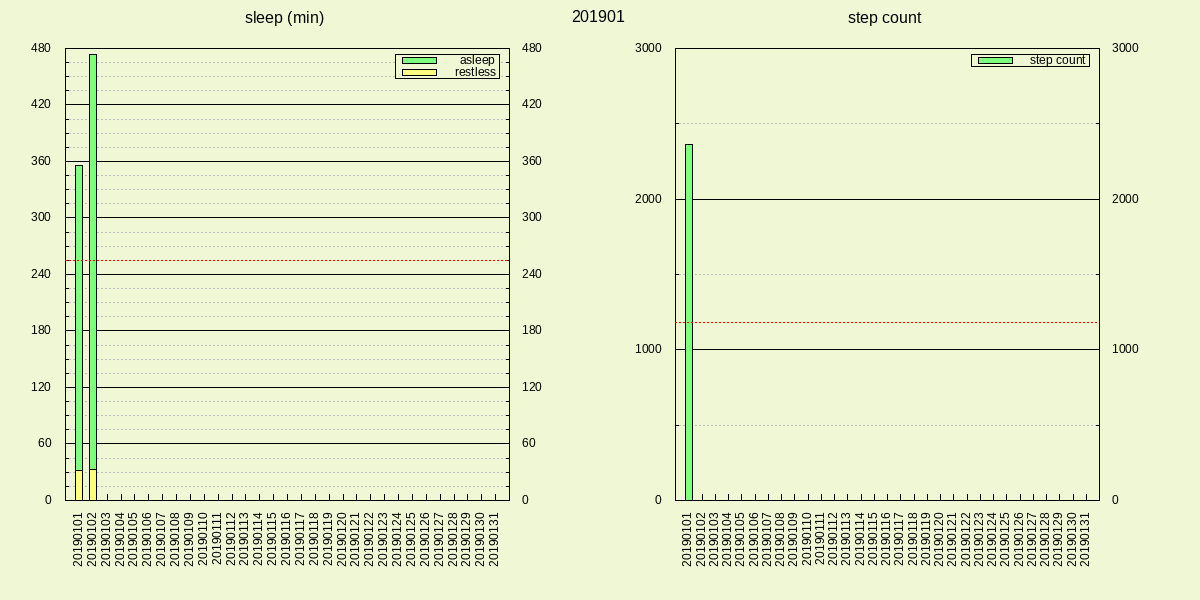
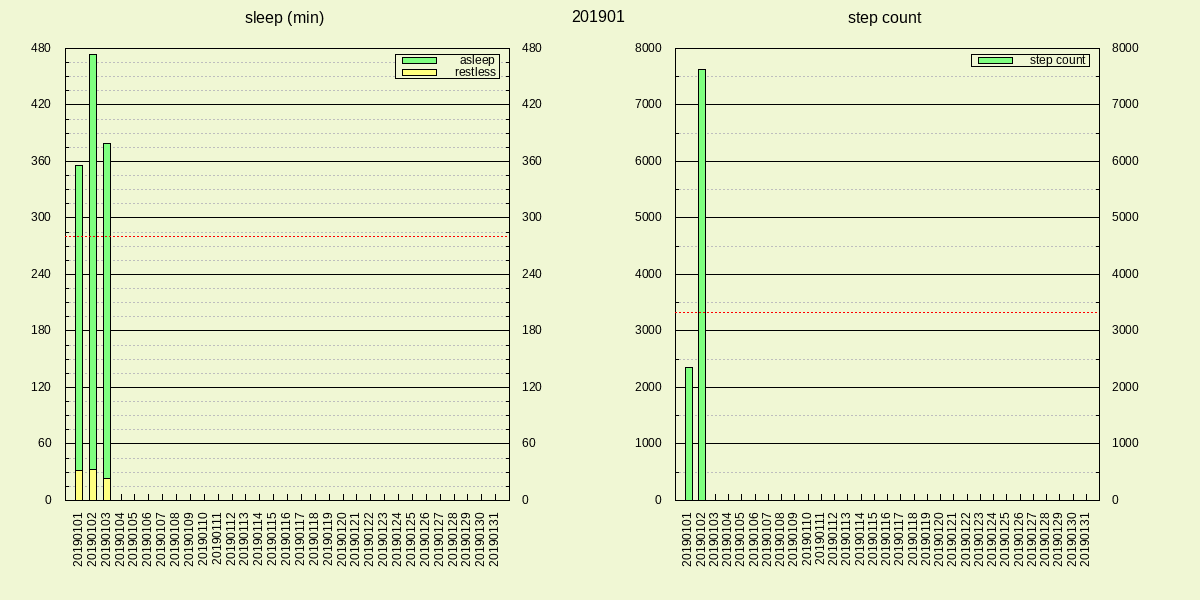
20191203 slac and README fix slac plot

diff --git a/README.md b/README.md
@@ -2,7 +2,7 @@
 
 [![progress](plots/progress.png)](https://raw.githubusercontent.com/yradunchev/hd/master/plots/progress.png)   
 [![weight plot](plots/weight.png)](https://raw.githubusercontent.com/yradunchev/hd/master/plots/weight.png)   
-[![dataplot](plots/201812.png)](https://raw.githubusercontent.com/yradunchev/hd/master/plots/201812.png)   
+[![dataplot](plots/201901.png)](https://raw.githubusercontent.com/yradunchev/hd/master/plots/201901.png)   
 
 ## scripts:
 
